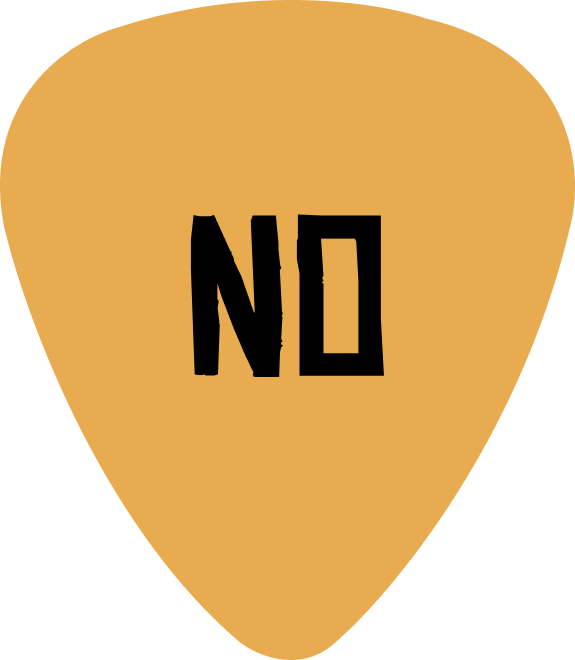
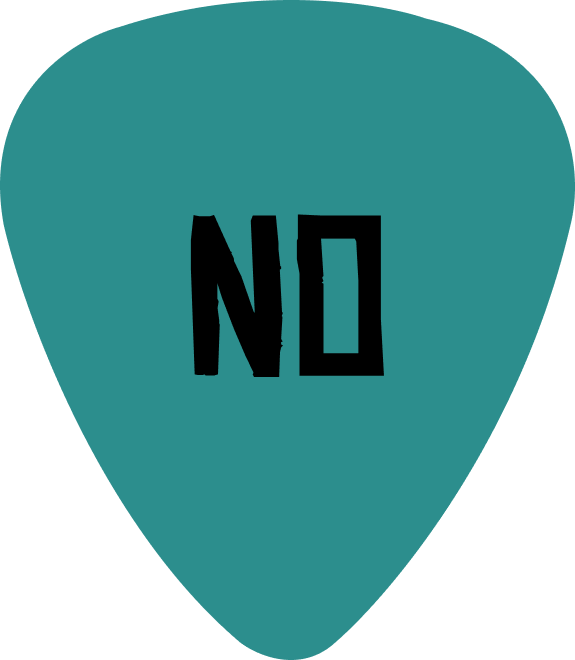
fix: updates

diff --git a/Let’s Rock!.playgroundbook/Edits/UserEdits.diffpack/UserModules/InitialView.playgroundmodule/Sources/InitialView.swift b/Let’s Rock!.playgroundbook/Edits/UserEdits.diffpack/UserModules/InitialView.playgroundmodule/Sources/InitialView.swift
@@ -4,8 +4,19 @@ public struct ContentView: View {
     
     @State var isHoverYes = false
     @State var isHoverNo = false
+    @State var texts = ["Are you sure? it's gonna be a great adventure!","Come on, you will like it!"]
+    @State var cont = 0
+    @State var isVisible = false
     
     public init(){
+        let fontURL = Bundle.main.url(forResource: "CHINESER", withExtension: "ttf")
+        CTFontManagerRegisterFontURLs([fontURL!] as CFArray, CTFontManagerScope.process, true){ (errors, done) -> Bool in
+            if(done) {
+                
+            }
+            print(errors as Array)
+            return true
+        }
         
     }
     public var body: some View {
@@ -28,15 +39,50 @@ public struct ContentView: View {
             Spacer()
                 .frame(height: 150)
             HStack(alignment: .center){
-                Image(uiImage: UIImage(named: "noPick")!)
-                    .resizable()
-                    .aspectRatio(contentMode: .fit)
-                    .frame(width: 140, height: 140)
-                    .shadow(radius: isHoverNo ? 5 : 0)
-                    .animation(.spring())
-                    .onHover { hoverN in
-                        isHoverNo = hoverN
+                Button(action: {
+                    switch cont {
+                    case 0:
+                        withAnimation(.easeInOut(duration:0.5)){
+                            isVisible.toggle() 
+                        }
+                        DispatchQueue.main.asyncAfter(deadline: .now() + 5){
+                            withAnimation(.easeInOut(duration: 0.5)){
+                                isVisible.toggle()
+                            }
+                            DispatchQueue.main.asyncAfter(deadline: .now() + 1) {
+                                cont += 1
+                            }
+                        }
+                    case 1:
+                        withAnimation(.easeInOut(duration:0.5)){
+                            isVisible.toggle() 
+                        }
+                        DispatchQueue.main.asyncAfter(deadline: .now() + 5){
+                            withAnimation(.easeInOut(duration: 0.5)){
+                                isVisible.toggle()
+                            }
+                            DispatchQueue.main.asyncAfter(deadline: .now() + 1) {
+                                cont = 0
+                            }
+                            
+                        }
+                    default:
+                        break 
                     }
+                    
+                    
+                }){
+                    Image(uiImage: UIImage(named: "noPick")!)
+                        .resizable()
+                        .aspectRatio(contentMode: .fit)
+                        .frame(width: 140, height: 140)
+                        .shadow(radius: isHoverNo ? 5 : 0)
+                        .animation(.spring())
+                        .onHover { hoverN in
+                            isHoverNo = hoverN
+                        }
+                }
+                
                     
                 Spacer()
                     .frame(width: 80)
@@ -53,11 +99,18 @@ public struct ContentView: View {
                             isHoverYes = hover
                         }
                 }
-                
             }
             Spacer()
+                .frame(height:50)
+            Text(texts[cont])
+                .font(Font.custom("Chinese Rocks", size: 50))
+                .multilineTextAlignment(.center )
+                .foregroundColor(.black)
+                .animation(.default)
+                .opacity(isVisible ? 1 : 0)
+            Spacer()
             
-        }.background(Color(#colorLiteral(red: -0.15475499629974365, green: 0.66641765832901, blue: 0.5781239867210388, alpha: 1.0)))
+        }.background(Color(#colorLiteral(red: 0.9603047966957092, green: 0.7802415490150452, blue: 0.5308190584182739, alpha: 1.0)))
         .frame(maxWidth: .infinity, maxHeight: .infinity)
     }
     

diff --git a/Let’s Rock!.playgroundbook/Edits/UserEdits.diffpack/UserModules/CreatingRhythm.playgroundmodule/Sources/CreatingRhythm.swift b/Let’s Rock!.playgroundbook/Edits/UserEdits.diffpack/UserModules/CreatingRhythm.playgroundmodule/Sources/CreatingRhythm.swift
@@ -21,6 +21,15 @@ public struct CreatingRhythm : View{
     @State var posPicker : CGPoint?
     
     public init(){
+        let fontURL = Bundle.main.url(forResource: "CHINESER", withExtension: "ttf")
+        CTFontManagerRegisterFontURLs([fontURL!] as CFArray, CTFontManagerScope.process, true){ (errors, done) -> Bool in
+            if(done) {
+                
+            }
+            print(errors as Array)
+            return true
+        }
+        
     }
     
     public var body : some View{
